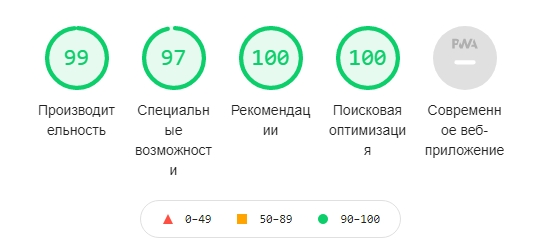
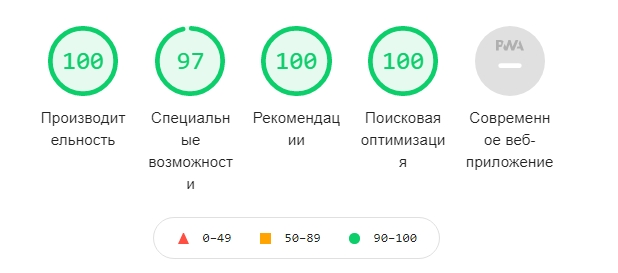
plan_app: optimization - async css

diff --git a/plan_app/index.html b/plan_app/index.html
@@ -8,7 +8,10 @@
 	<meta name="description" content="Plan and manage. App for your productivity">
 	<meta name="keywords" content="planing, productivity">
 	<title>Planning app</title>
-	<!-- <link rel="stylesheet" href="css/normalize.css"> -->
+	<link rel="preload" href="css/normalize.css" as="style" onload="this.onload=null;this.rel='stylesheet'">
+	<noscript>
+		<link rel="stylesheet" href="css/normalize.css.css">
+	</noscript>
 	<link rel="stylesheet" href="css/iconfont.css ">
 	<link rel="stylesheet" href="css/style.css">
 </head>
@@ -453,7 +456,7 @@
 
 	<link rel="preconnect" href="https://fonts.gstatic.com">
 	<link
-		href="https://fonts.googleapis.com/css2?family=Quicksand:wght@300;400;500;700&family=Roboto:wght@400;500;700&display=swap"
+		href="https://fonts.googleapis.com/css2?family=Quicksand:wght@300;400;500;700&family=Roboto:wght@400;500;700&display=swap&subset=latin-ext"
 		rel="stylesheet">
 </body>
 

diff --git a/plan_app/css/style.scss b/plan_app/css/style.scss
@@ -1,4 +1,4 @@
-@import url(./normalize.css);
+// @import url(./normalize.css);
 // @import url("https://fonts.googleapis.com/css2?family=Quicksand:wght@300;400;500;700&family=Roboto:wght@400;500;700&display=swap");
 
 // === PLACEHOLDERS ===
